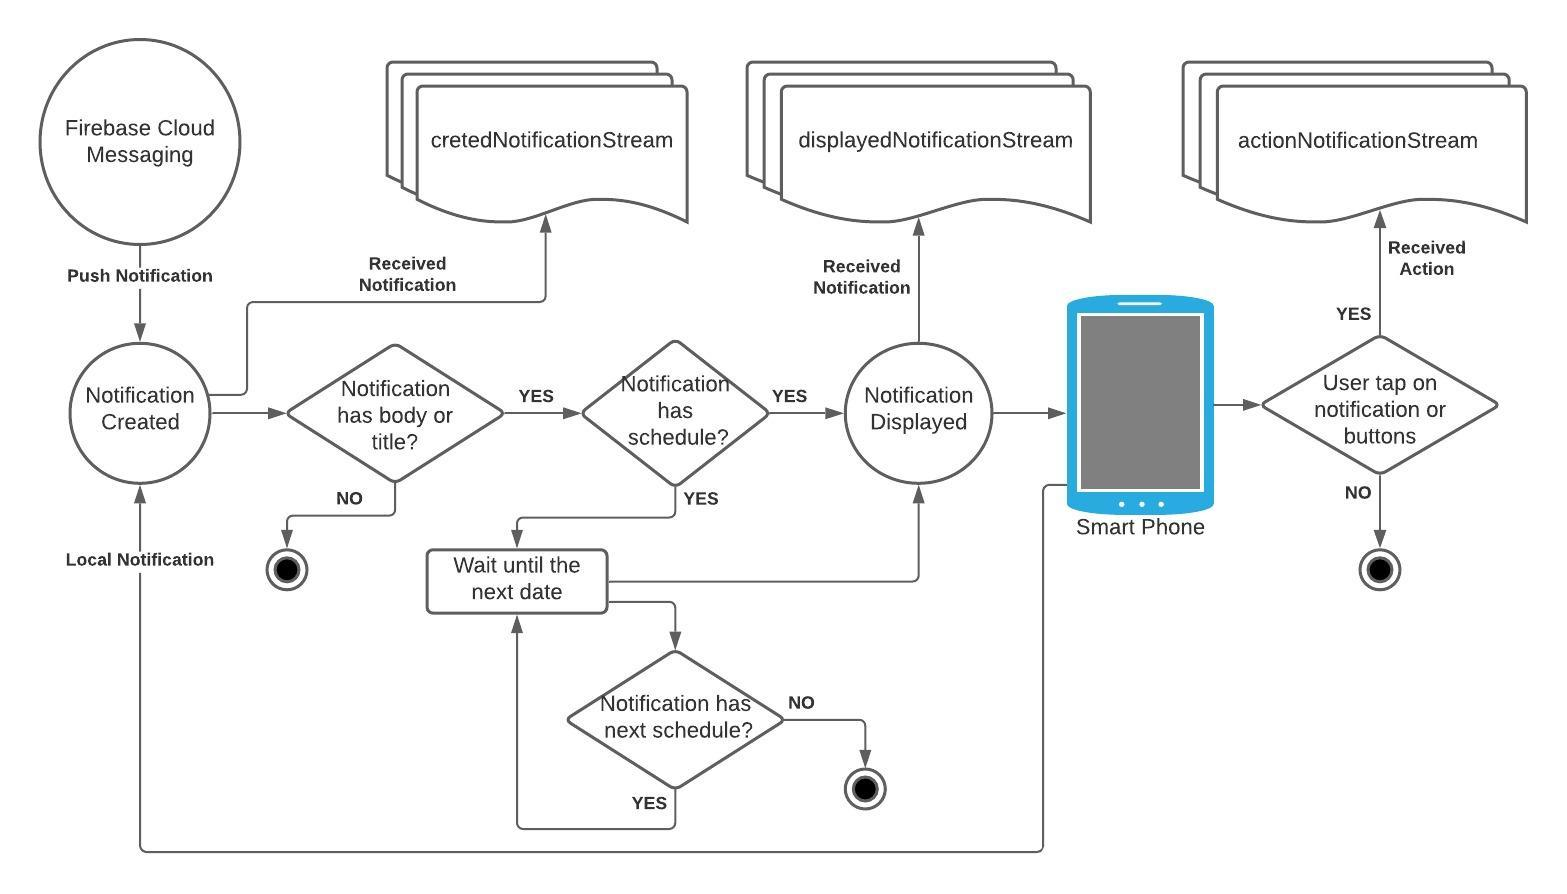
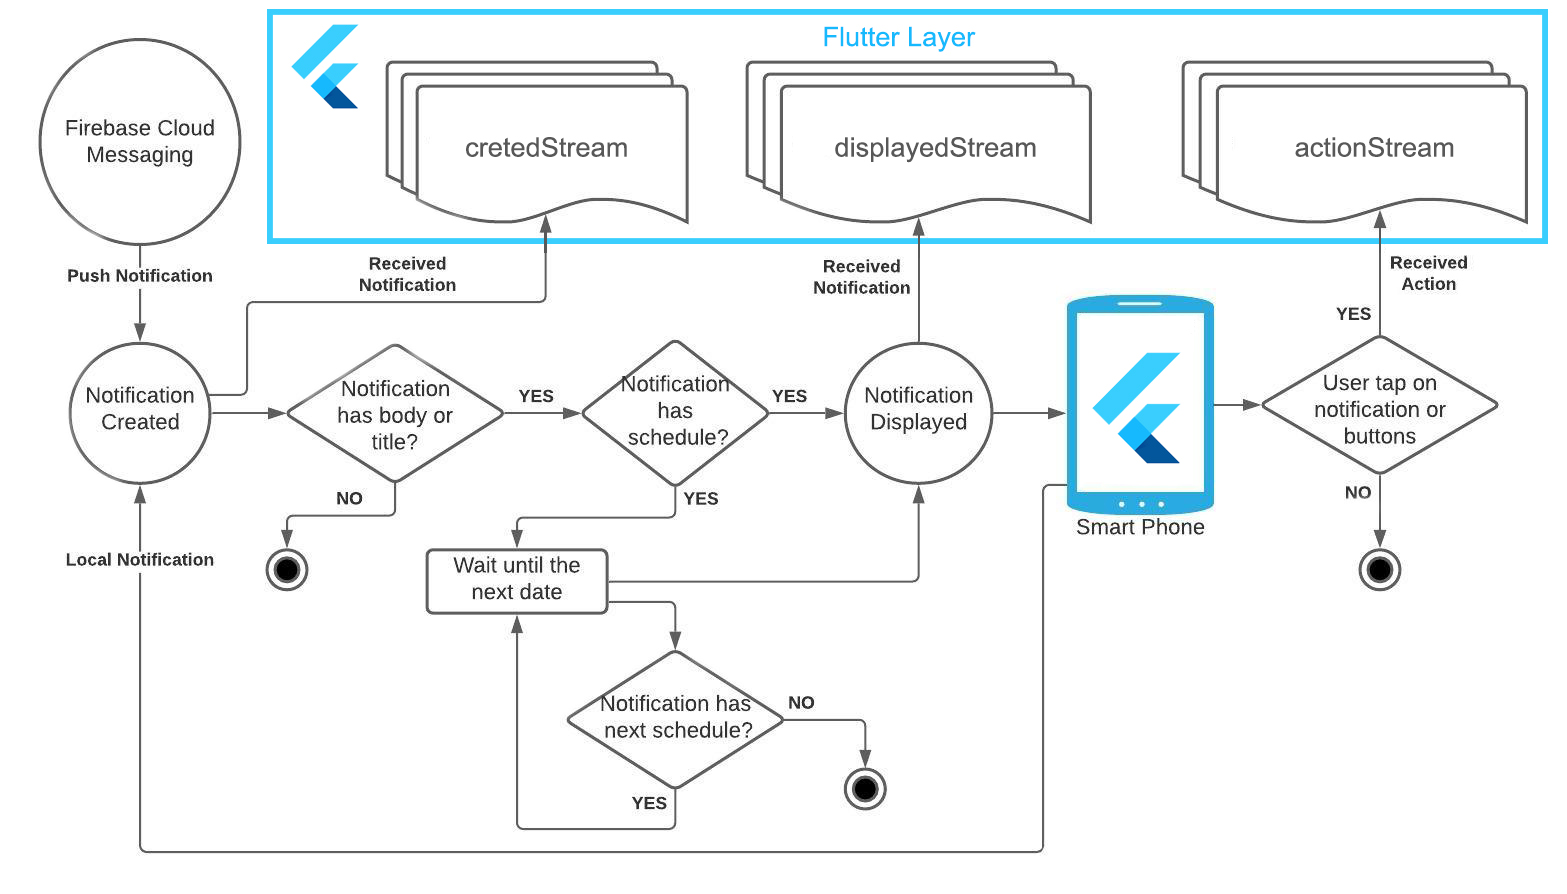
Refactor names to simple ones and deactivate firebase for new users

diff --git a/lib/src/awesome_notifications_core.dart b/lib/src/awesome_notifications_core.dart
@@ -1,7 +1,5 @@
 import 'dart:async';
 import 'dart:typed_data';
-import 'dart:ui' as ui show Codec;
-
 
 import 'package:awesome_notifications/src/enumerators/media_source.dart';
 import 'package:flutter/foundation.dart';
@@ -33,15 +31,15 @@ class AwesomeNotifications  {
 
   final StreamController<ReceivedNotification>
             // ignore: close_sinks
-            _createdNotificationSubject = StreamController<ReceivedNotification>.broadcast(sync: true);
+            _createdSubject = StreamController<ReceivedNotification>.broadcast(sync: true);
 
   final StreamController<ReceivedNotification>
             // ignore: close_sinks
-            _displayedNotificationSubject = StreamController<ReceivedNotification>.broadcast(sync: true);
+            _displayedSubject = StreamController<ReceivedNotification>.broadcast(sync: true);
 
   final StreamController<ReceivedAction>
             // ignore: close_sinks
-            _actionNotificationSubject = StreamController<ReceivedAction>.broadcast(sync: true);
+            _actionSubject = StreamController<ReceivedAction>.broadcast(sync: true);
 
 
 
@@ -52,16 +50,16 @@ class AwesomeNotifications  {
     return _tokenStreamController.stream;
   }
 
-  Stream<ReceivedNotification> get createdNotificationStream {
-    return _createdNotificationSubject.stream;
+  Stream<ReceivedNotification> get createdStream {
+    return _createdSubject.stream;
   }
 
-  Stream<ReceivedNotification> get displayedNotificationStream {
-    return _displayedNotificationSubject.stream;
+  Stream<ReceivedNotification> get displayedStream {
+    return _displayedSubject.stream;
   }
 
-  Stream<ReceivedAction> get actionNotificationStream {
-    return _actionNotificationSubject.stream;
+  Stream<ReceivedAction> get actionStream {
+    return _actionSubject.stream;
   }
 
 
@@ -72,16 +70,16 @@ class AwesomeNotifications  {
     return _tokenStreamController.sink;
   }
 
-  Sink get createdNotificationSink {
-    return _createdNotificationSubject.sink;
+  Sink get createdSink {
+    return _createdSubject.sink;
   }
 
-  Sink get displayedNotificationSink {
-    return _displayedNotificationSubject.sink;
+  Sink get displayedSink {
+    return _displayedSubject.sink;
   }
 
-  Sink get actionNotificationSink {
-    return _actionNotificationSubject.sink;
+  Sink get actionSink {
+    return _actionSubject.sink;
   }
 
 
@@ -89,9 +87,9 @@ class AwesomeNotifications  {
 
   dispose(){
     _tokenStreamController.close();
-    _createdNotificationSubject.close();
-    _displayedNotificationSubject.close();
-    _actionNotificationSubject.close();
+    _createdSubject.close();
+    _displayedSubject.close();
+    _actionSubject.close();
   }
 
 
@@ -166,7 +164,7 @@ class AwesomeNotifications  {
         return;
 
       case CHANNEL_METHOD_NOTIFICATION_CREATED:
-        _createdNotificationSubject.sink.add(
+        _createdSubject.sink.add(
             ReceivedNotification()
                 .fromMap(arguments)
         );
@@ -174,7 +172,7 @@ class AwesomeNotifications  {
         return;
 
       case CHANNEL_METHOD_NOTIFICATION_DISPLAYED:
-        _displayedNotificationSubject.sink.add(
+        _displayedSubject.sink.add(
             ReceivedNotification()
                 .fromMap(arguments)
         );
@@ -182,7 +180,7 @@ class AwesomeNotifications  {
         return;
 
       case CHANNEL_METHOD_ACTION_RECEIVED:
-        _actionNotificationSubject.sink.add(
+        _actionSubject.sink.add(
             ReceivedAction()
                 .fromMap(arguments)
         );

diff --git a/example/lib/pages/notification_examples_page.dart b/example/lib/pages/notification_examples_page.dart
@@ -91,21 +91,21 @@ class _NotificationExamplesPageState extends State<NotificationExamplesPage> {
     // getting a valid token
     initializeFirebaseService();
 
-    AwesomeNotifications().createdNotificationStream.listen(
+    AwesomeNotifications().createdStream.listen(
         (receivedNotification){
           String createdSourceText = AssertUtils.toSimpleEnumString(receivedNotification.createdSource);
           Fluttertoast.showToast(msg: '$createdSourceText notification created');
         }
     );
 
-    AwesomeNotifications().displayedNotificationStream.listen(
+    AwesomeNotifications().displayedStream.listen(
         (receivedNotification){
           String createdSourceText = AssertUtils.toSimpleEnumString(receivedNotification.createdSource);
           Fluttertoast.showToast(msg: '$createdSourceText notification displayed');
         }
     );
 
-    AwesomeNotifications().actionNotificationStream.listen(
+    AwesomeNotifications().actionStream.listen(
         (receivedNotification){
 
           if(!StringUtils.isNullOrEmpty(receivedNotification.buttonKeyInput)){
@@ -186,9 +186,9 @@ class _NotificationExamplesPageState extends State<NotificationExamplesPage> {
 
   @override
   void dispose() {
-    AwesomeNotifications().createdNotificationSink.close();
-    AwesomeNotifications().displayedNotificationSink.close();
-    AwesomeNotifications().actionNotificationSink.close();
+    AwesomeNotifications().createdSink.close();
+    AwesomeNotifications().displayedSink.close();
+    AwesomeNotifications().actionSink.close();
     super.dispose();
   }
 

diff --git a/lib/src/definitions.dart b/lib/src/definitions.dart
@@ -46,9 +46,9 @@ import 'enumerators/notification_layout.dart';
 
   const CHANNEL_METHOD_CREATE_NOTIFICATION = 'createNewNotification';
 
-  const CHANNEL_METHOD_NOTIFICATION_CREATED = 'createdNotification';
-  const CHANNEL_METHOD_NOTIFICATION_DISPLAYED = 'displayedNotification';
-  const CHANNEL_METHOD_ACTION_RECEIVED = 'actionNotification';
+  const CHANNEL_METHOD_NOTIFICATION_CREATED = 'notificationCreated';
+  const CHANNEL_METHOD_NOTIFICATION_DISPLAYED = 'notificationDisplayed';
+  const CHANNEL_METHOD_ACTION_RECEIVED = 'receivedAction';
 
   const CHANNEL_METHOD_NOTIFICATION_AT_LAUNCH = 'notificationAtLaunch';
 

diff --git a/android/src/main/java/me/carda/awesome_notifications/AwesomeNotificationsPlugin.java b/android/src/main/java/me/carda/awesome_notifications/AwesomeNotificationsPlugin.java
@@ -204,11 +204,11 @@ public class AwesomeNotificationsPlugin extends BroadcastReceiver implements Flu
                 return;
 
             case Definitions.BROADCAST_CREATED_NOTIFICATION:
-                onBroadcastCreatedNotification(intent);
+                onBroadcastNotificationCreated(intent);
                 return;
 
             case Definitions.BROADCAST_DISPLAYED_NOTIFICATION:
-                onBroadcastDisplayedNotification(intent);
+                onBroadcastNotificationDisplayed(intent);
                 return;
 
             case Definitions.BROADCAST_KEEP_ON_TOP:
@@ -226,7 +226,7 @@ public class AwesomeNotificationsPlugin extends BroadcastReceiver implements Flu
         pluginChannel.invokeMethod(Definitions.CHANNEL_METHOD_NEW_FCM_TOKEN, token);
     }
 
-    private void onBroadcastCreatedNotification(Intent intent) {
+    private void onBroadcastNotificationCreated(Intent intent) {
         try {
 
             Serializable serializable = intent.getSerializableExtra(Definitions.EXTRA_BROADCAST_MESSAGE);
@@ -258,7 +258,7 @@ public class AwesomeNotificationsPlugin extends BroadcastReceiver implements Flu
         }
     }
 
-    private void onBroadcastDisplayedNotification(Intent intent) {
+    private void onBroadcastNotificationDisplayed(Intent intent) {
         try {
 
             Serializable serializable = intent.getSerializableExtra(Definitions.EXTRA_BROADCAST_MESSAGE);
@@ -279,7 +279,7 @@ public class AwesomeNotificationsPlugin extends BroadcastReceiver implements Flu
         }
     }
 
-    private void recoverCreatedNotifications(Context context) {
+    private void recoverNotificationCreateds(Context context) {
         List<NotificationReceived> lostCreated = CreatedManager.listCreated(context);
 
         if(lostCreated != null) {
@@ -297,7 +297,7 @@ public class AwesomeNotificationsPlugin extends BroadcastReceiver implements Flu
         }
     }
 
-    private void recoverDisplayedNotifications(Context context) {
+    private void recoverNotificationDisplayeds(Context context) {
         List<NotificationReceived> lostDisplayed = DisplayedManager.listDisplayed(context);
 
         if(lostDisplayed != null) {
@@ -602,8 +602,8 @@ public class AwesomeNotificationsPlugin extends BroadcastReceiver implements Flu
         setDefaultIcon(context, defaultIcon);
         setChannels(context, channelsData);
 
-        recoverCreatedNotifications(context);
-        recoverDisplayedNotifications(context);
+        recoverNotificationCreateds(context);
+        recoverNotificationDisplayeds(context);
 
         captureNotificationActionOnLaunch();
         return true;

diff --git a/android/src/main/java/me/carda/awesome_notifications/notifications/NotificationSender.java b/android/src/main/java/me/carda/awesome_notifications/notifications/NotificationSender.java
@@ -156,7 +156,7 @@ public class NotificationSender extends AsyncTask<String, Void, NotificationRece
 
             if(created){
                 CreatedManager.saveCreated(context, receivedNotification);
-                BroadcastSender.SendBroadcastCreatedNotification(
+                BroadcastSender.SendBroadcastNotificationCreated(
                     context,
                     receivedNotification
                 );
@@ -164,7 +164,7 @@ public class NotificationSender extends AsyncTask<String, Void, NotificationRece
 
             if(displayed){
                 DisplayedManager.saveDisplayed(context, receivedNotification);
-                BroadcastSender.SendBroadcastDisplayedNotification(
+                BroadcastSender.SendBroadcastNotificationDisplayed(
                     context,
                     receivedNotification
                 );

diff --git a/android/src/main/java/me/carda/awesome_notifications/BroadcastSender.java b/android/src/main/java/me/carda/awesome_notifications/BroadcastSender.java
@@ -27,7 +27,7 @@ public class BroadcastSender {
         return success;
     }
 
-    public static Boolean SendBroadcastCreatedNotification(Context context, NotificationReceived notificationReceived){
+    public static Boolean SendBroadcastNotificationCreated(Context context, NotificationReceived notificationReceived){
 
         Boolean success = false;
 
@@ -75,7 +75,7 @@ public class BroadcastSender {
         return success;
     }
 
-    public static Boolean SendBroadcastDisplayedNotification(Context context, NotificationReceived notificationReceived){
+    public static Boolean SendBroadcastNotificationDisplayed(Context context, NotificationReceived notificationReceived){
 
         Boolean success = false;
 

diff --git a/android/src/main/java/me/carda/awesome_notifications/Definitions.java b/android/src/main/java/me/carda/awesome_notifications/Definitions.java
@@ -55,9 +55,9 @@ public interface Definitions {
     String CHANNEL_METHOD_CANCEL_ALL_SCHEDULES = "cancelAllSchedules";
     String CHANNEL_METHOD_CANCEL_ALL_NOTIFICATIONS = "cancelAllNotifications";
 
-    String CHANNEL_METHOD_NOTIFICATION_CREATED = "createdNotification";
-    String CHANNEL_METHOD_NOTIFICATION_DISPLAYED = "displayedNotification";
-    String CHANNEL_METHOD_RECEIVED_ACTION = "actionNotification";
+    String CHANNEL_METHOD_NOTIFICATION_CREATED = "notificationCreated";
+    String CHANNEL_METHOD_NOTIFICATION_DISPLAYED = "notificationDisplayed";
+    String CHANNEL_METHOD_RECEIVED_ACTION = "receivedAction";
 
     String CHANNEL_METHOD_LIST_ALL_SCHEDULES = "listAllSchedules";
 

diff --git a/android/src/main/java/me/carda/awesome_notifications/notifications/NotificationScheduler.java b/android/src/main/java/me/carda/awesome_notifications/notifications/NotificationScheduler.java
@@ -140,7 +140,7 @@ public class NotificationScheduler extends AsyncTask<String, Void, Calendar> {
 
             if(scheduled){
                 ScheduleManager.saveSchedule(context, pushNotification);
-                BroadcastSender.SendBroadcastCreatedNotification(
+                BroadcastSender.SendBroadcastNotificationCreated(
                     context,
                     new NotificationReceived(pushNotification.content)
                 );

diff --git a/README.md b/README.md
@@ -95,7 +95,7 @@ AwesomeNotifications().initialize(
 4. On your main page, starts to listen the notification actions (to detect tap)
 
 ```dart
-AwesomeNotifications().actionNotificationStream.listen(
+AwesomeNotifications().receivedActionStream.listen(
     (receivedNotification){
     
         Navigator.of(context).pushName(context,
@@ -184,16 +184,16 @@ Notifications are received by local code or FCM using native code, so the messag
 
 The Flutter code will be called as soon as possible using [Dart Streams](https://dart.dev/tutorials/language/streams).
 
-**createdNotificationStream**: Fires when a notification is created
-**displayedNotificationStream**: Fires when a notification is displayed on system status bar
-**actionNotificationStream**: Fires when a notification is tapped by the user
+**createdStream**: Fires when a notification is created
+**displayedStream**: Fires when a notification is displayed on system status bar
+**actionStream**: Fires when a notification is tapped by the user
 
 <br>
 
 |                             | App in Foreground | App in Background | App Terminated (Killed) |
 | --------------------------: | ----------------- | ----------------- | -------------- |
-| **Android** | Fires all streams imeadtly after occours | Fires all streams imeadtly after occours | Fires `created` and `displayed` after the plugin initializes, but fires `action` imeadtly after occours |
-| **iOS**     | Fires all streams imeadtly after occours | Fires all streams imeadtly after occours | Fires `created` and `displayed` after the plugin initializes, but fires `action` imeadtly after occours |
+| **Android** | Fires all streams immediately after occurs | Fires all streams immediately after occurs | Fires `createdStream` and `displayedStream` after the plugin initializes, but fires `actionStream` immediately after occurs |
+| **iOS**     | Fires all streams immediately after occurs | Fires all streams immediately after occurs | Fires `createdStream` and `displayedStream` after the plugin initializes, but fires `actionStream` immediately after occurs |
 
 <br>
 

diff --git a/CHANGELOG.md b/CHANGELOG.md
@@ -1,3 +1,4 @@
+## [0.0.1+3]
 ## [0.0.1+2]
 ## [0.0.1+1]
 * Adjusting the plugin content to pub.dev patterns
